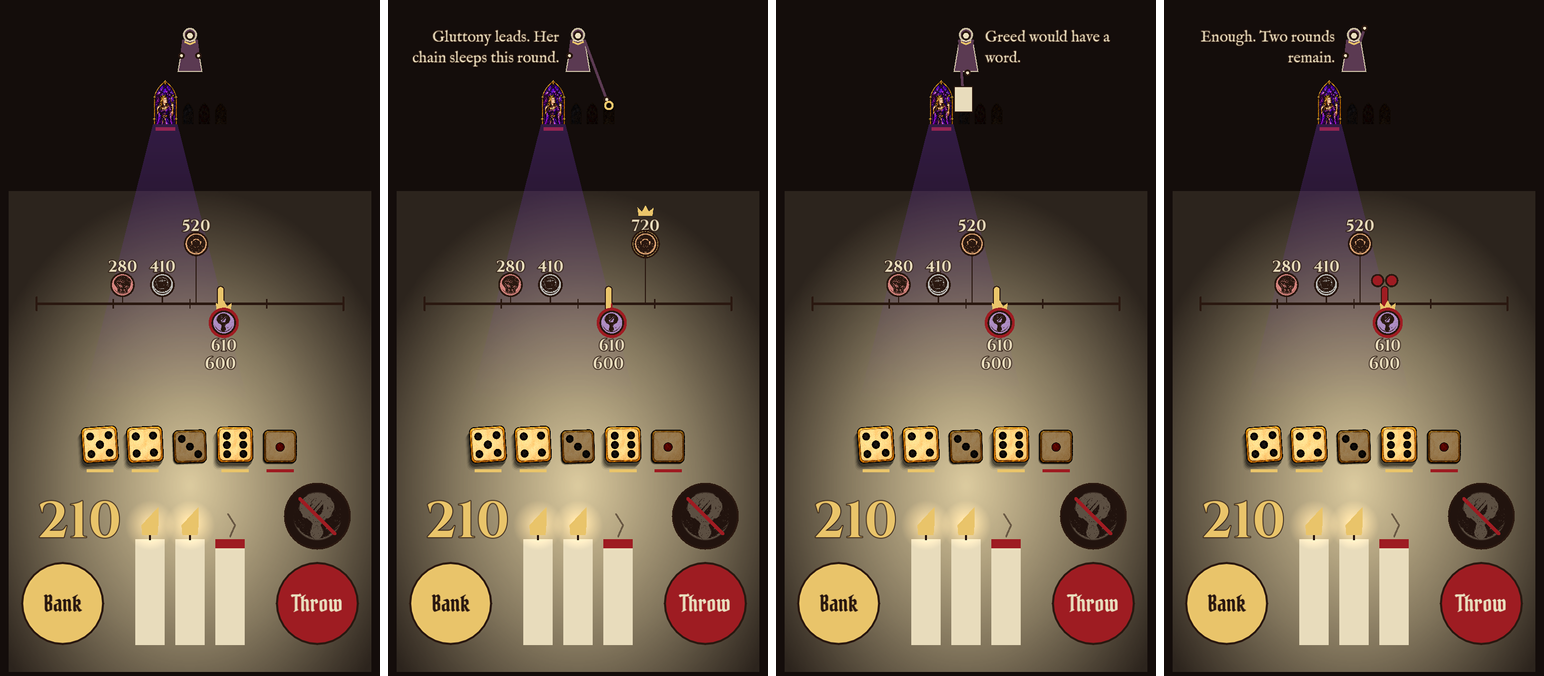
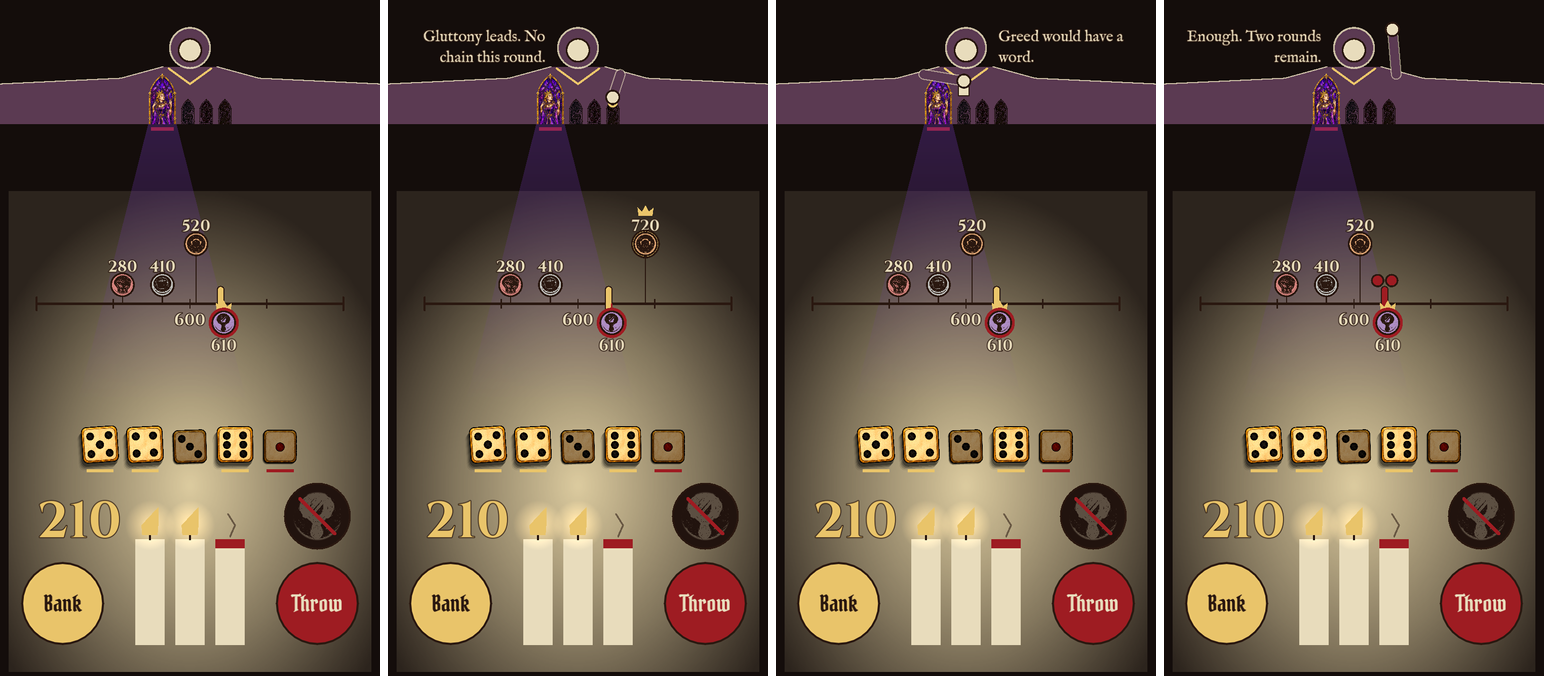
review: packet for REPLY 15 (rules built, the Master behind the windows, Gluttony/Sloth and game length sims); REPLY 14 packet archived

diff --git a/Docs/review/latest/packet.md b/Docs/review/latest/packet.md
@@ -1,24 +1,28 @@
-# Packet: REPLY 14 (the Master's mark in the sim; his figure in the blockout)
-**Sim baseline:** call at 600, Cash Out x1.25, chain capped x2, a bust keeps half the turn's face points. Bots now count the half they keep when deciding. Seed 1; 20000 mixed games; 4000 games for each odd seat. "Mark" = at the start of each round the strict leader is marked for that round.
+# Packet: REPLY 15 (new rules built, the Master behind the windows, pushed)
+**Built and pushed** (main 2d85ff5; TestFlight run 17 = build 117, internal only):
+- `Rules.V5`: chain capped at x2; a bust keeps half the turn's face points (to 5); Cash Out x1.25; the Master marks each round's strict leader: no chain for them that round. His mark line (new pools, 5 lines each) and mark pose play live, and a gold ring stays on the marked window all round. Save version 5. TableDesign §10 records it. v5_check adds 11 checks, including whole games where he marks the right seat.
+- The Master stands behind the window row: hood and mask in a 130 px band above it, plum robe to both screen edges behind the windows. The offer card rests just above its window, scaled to it. `table_end`: the post's 600 now sits beside the post, clear of my 640.
+- Suite: all pass. Text audit: 32/32 clean at se and std. Fixture changed: `table_master_mark` (now marked).
 
-| run | Sin range | Envy | Greed | lead after r2 (2nd / last) | last seat wins | 0-bank turns (all / Gambler) | chain share | rounds (over 6) | odd seat Novice / Banker / Gambler |
-|---|---|---|---|---|---|---|---|---|---|
-| R13 cap+(b), bots untaught | 19.6-30.8 | 24.5 | 30.8 | 166 / 384 | 3.6% | 11% / 12% | 35% | 5.19 | 20.3 / 24.6 / 22.6 |
-| baseline, bots taught | 20.4-30.3 | 25.2 | 30.3 | 165 / 384 | 3.5% | 10.7% / 11% | 34% | 5.20 (8.5%) | 20.4 / 24.4 / 18.0 |
-| mark: chain off | 18.9-32.0 | 27.1 | 27.8 | 136 / 332 | 5.7% | 11.1% / 11% | 29% | 5.57 (16.7%) | 20.4 / 23.5 / 15.4 |
-| mark: one die fewer | 19.4-30.3 | 27.8 | 30.0 | 154 / 361 | 3.8% | 10.4% / 10% | 33% | 5.34 (11.3%) | 18.6 / 22.9 / 15.9 |
+**Sheet** (std): before (REPLY 13 build), rest, mark, offer, calling, table_end. `sheet_se.png`: rest, mark, offer, calling at SE.
+**What I see:** at std the active window is smaller than in the REPLY 13 build (the hood band takes 130 px from the wall), but larger than in REPLY 14. At SE the wall is short, so the windows are small and the robe is a thin strip. The offer card to Greed sits close to my window's top-right corner.
 
-**Bank per turn, median / p90 / max** (round 1 · 3 · 5): baseline 110/315/1320 · 90/365/1785 · 70/350/1385 · chain off 100/300/1320 · 80/345/1505 · 70/340/1365 · one die fewer 105/305/1320 · 80/360/1440 · 70/350/1445.
-**Also:** the final margin is 242 at baseline, 157 with chain off and 217 with one die fewer. Games won by 400 or more: 20%, 7% and 17%.
+**Sim** (20000 mixed, new baseline = the build's rules, call at 600 unless noted):
+| run | Sin range | Gluttony | Sloth | rounds (over 6) | last seat wins |
+|---|---|---|---|---|---|
+| baseline | 18.9-32.0 | 32.0 | 18.9 | 5.57 (16.7%) | 5.7% |
+| Devour +45 (from 60) | 19.5-28.9 | 27.8 | 19.5 | 5.61 (18.1%) | 5.9% |
+| Devour +30 | 19.7-29.4 | 24.4 | 19.7 | 5.65 (19.2%) | 5.8% |
+| Drag 6 (from 4) | 18.9-32.0 | 32.0 | 18.9 | 5.57 (16.7%) | 5.8% |
+| Idle turns Strikes to 4s (from 3s) | 17.9-34.1 | 29.0 | 34.1 | 5.45 (13.1%) | 5.8% |
+| call at 550 | 19.1-31.8 | 31.8 | 19.1 | 5.32 (11.2%) | 5.8% |
+| call at 500 | 19.4-31.7 | 31.7 | 19.4 | 5.06 (6.8%) | 5.9% |
+| **call at 500 + Devour +45** | **19.7-30.2** | 28.1 | 19.7 | **5.10 (7.5%)** | 6.2% |
 
-**What it says:** teaching the bots moved little; only the Gambler as the odd seat drops (22.6 → 18.0), because every seat now presses harder. Chain off on the leader is the stronger mark. The lead after round 2 drops by 30, the last seat wins 5.7% (up from 3.5%), and margins of 400 or more fall from 20% to 7%. It costs 0.37 of a round, and 17% of games run past 6 rounds. It also spreads the Sins (Gluttony 32.0, Pride 19.8, Sloth 18.9). One die fewer barely moves anything.
-
-**Build (local, blockout):** the Master is now a flat figure (hood, bone mask, plum robe, gold collar), centred above the windows. He speaks from beside his figure, on the side away from his reach. Poses: rest; speak; call (arm raised; the build uses it for his call and the final round); mark (arm to the leader's window, gold ring); offer (card in hand to that window). Mark and offer are fixture-only for now: the build has no mark rule, and offers cover the table. The skeleton is gone. New fixtures: `table_master_rest`, `_mark`, `_offer`, `_calling`. Text audit: 32/32 clean at se and std.
-**Sheet:** before (the old Master line under the track, skeleton by the candles), then rest, mark, offer, calling (std). `sheet_se.png` shows the same four poses at SE size.
-**What I see:** the screen has no spare band at std or SE. The dice were already at their minimum, so a Master twice a rival's window height halves every window. At std the active window drops from about 280 to 132 px wide; at SE rivals are about 25 pt wide. The offer card covers the Greed window it is handed to.
+**What it says:** Devour +45 fixes Gluttony. The call at 500 is the only lever that brings games past 6 rounds under 10%; 550 lands at 11%. Drag doesn't touch Sloth, and Idle to 4s overshoots. Sloth and Pride (about 20) stay low, and Greed (30) is now the top Sin.
 
 **Questions**
-1. The figure takes space from the windows (they are about half as big). Should the Master stand behind the window row, with the windows in front of his robe, so the windows keep their old size? Rec: yes. It keeps the windows readable and still reads as a full figure at the head of the table.
-2. Which mark goes to the next sim step: chain off, or one die fewer? Rec: chain off. It is the only one that narrows the lead and lifts the last seat.
-3. Chain off spreads the Sins (Gluttony 32, Sloth 18.9). Should I run the mark with Gluttony's and Sloth's numbers as the next sim? Rec: hold until 2 is decided.
-4. Should the offer card rest just above the target window, not on it? Rec: yes.
+1. Build the call at 500 and Devour +45? Rec: yes. It is the only pair here that meets your 10% bar with the narrowest range.
+2. Sloth: should I sim Idle turning one Strike to a 4 (the rest to 3s)? Rec: yes. Both ends of the knob are measured; the middle is untried.
+3. At SE the hood band leaves small windows. Should the band shrink on short screens (a quarter of the wall, at most 130 px)? Rec: yes.
+4. The table hides during an offer, so the Master's offer pose is still fixture-only. Should the offer show on the table, with the card in his hand, before the card screen opens? Rec: yes, as the offer's anticipation beat.

diff --git a/Docs/review/archive/2026-11-16-reply14/packet.md b/Docs/review/archive/2026-11-16-reply14/packet.md
@@ -1,0 +1,24 @@
+# Packet: REPLY 14 (the Master's mark in the sim; his figure in the blockout)
+**Sim baseline:** call at 600, Cash Out x1.25, chain capped x2, a bust keeps half the turn's face points. Bots now count the half they keep when deciding. Seed 1; 20000 mixed games; 4000 games for each odd seat. "Mark" = at the start of each round the strict leader is marked for that round.
+
+| run | Sin range | Envy | Greed | lead after r2 (2nd / last) | last seat wins | 0-bank turns (all / Gambler) | chain share | rounds (over 6) | odd seat Novice / Banker / Gambler |
+|---|---|---|---|---|---|---|---|---|---|
+| R13 cap+(b), bots untaught | 19.6-30.8 | 24.5 | 30.8 | 166 / 384 | 3.6% | 11% / 12% | 35% | 5.19 | 20.3 / 24.6 / 22.6 |
+| baseline, bots taught | 20.4-30.3 | 25.2 | 30.3 | 165 / 384 | 3.5% | 10.7% / 11% | 34% | 5.20 (8.5%) | 20.4 / 24.4 / 18.0 |
+| mark: chain off | 18.9-32.0 | 27.1 | 27.8 | 136 / 332 | 5.7% | 11.1% / 11% | 29% | 5.57 (16.7%) | 20.4 / 23.5 / 15.4 |
+| mark: one die fewer | 19.4-30.3 | 27.8 | 30.0 | 154 / 361 | 3.8% | 10.4% / 10% | 33% | 5.34 (11.3%) | 18.6 / 22.9 / 15.9 |
+
+**Bank per turn, median / p90 / max** (round 1 · 3 · 5): baseline 110/315/1320 · 90/365/1785 · 70/350/1385 · chain off 100/300/1320 · 80/345/1505 · 70/340/1365 · one die fewer 105/305/1320 · 80/360/1440 · 70/350/1445.
+**Also:** the final margin is 242 at baseline, 157 with chain off and 217 with one die fewer. Games won by 400 or more: 20%, 7% and 17%.
+
+**What it says:** teaching the bots moved little; only the Gambler as the odd seat drops (22.6 → 18.0), because every seat now presses harder. Chain off on the leader is the stronger mark. The lead after round 2 drops by 30, the last seat wins 5.7% (up from 3.5%), and margins of 400 or more fall from 20% to 7%. It costs 0.37 of a round, and 17% of games run past 6 rounds. It also spreads the Sins (Gluttony 32.0, Pride 19.8, Sloth 18.9). One die fewer barely moves anything.
+
+**Build (local, blockout):** the Master is now a flat figure (hood, bone mask, plum robe, gold collar), centred above the windows. He speaks from beside his figure, on the side away from his reach. Poses: rest; speak; call (arm raised; the build uses it for his call and the final round); mark (arm to the leader's window, gold ring); offer (card in hand to that window). Mark and offer are fixture-only for now: the build has no mark rule, and offers cover the table. The skeleton is gone. New fixtures: `table_master_rest`, `_mark`, `_offer`, `_calling`. Text audit: 32/32 clean at se and std.
+**Sheet:** before (the old Master line under the track, skeleton by the candles), then rest, mark, offer, calling (std). `sheet_se.png` shows the same four poses at SE size.
+**What I see:** the screen has no spare band at std or SE. The dice were already at their minimum, so a Master twice a rival's window height halves every window. At std the active window drops from about 280 to 132 px wide; at SE rivals are about 25 pt wide. The offer card covers the Greed window it is handed to.
+
+**Questions**
+1. The figure takes space from the windows (they are about half as big). Should the Master stand behind the window row, with the windows in front of his robe, so the windows keep their old size? Rec: yes. It keeps the windows readable and still reads as a full figure at the head of the table.
+2. Which mark goes to the next sim step: chain off, or one die fewer? Rec: chain off. It is the only one that narrows the lead and lifts the last seat.
+3. Chain off spreads the Sins (Gluttony 32, Sloth 18.9). Should I run the mark with Gluttony's and Sloth's numbers as the next sim? Rec: hold until 2 is decided.
+4. Should the offer card rest just above the target window, not on it? Rec: yes.
